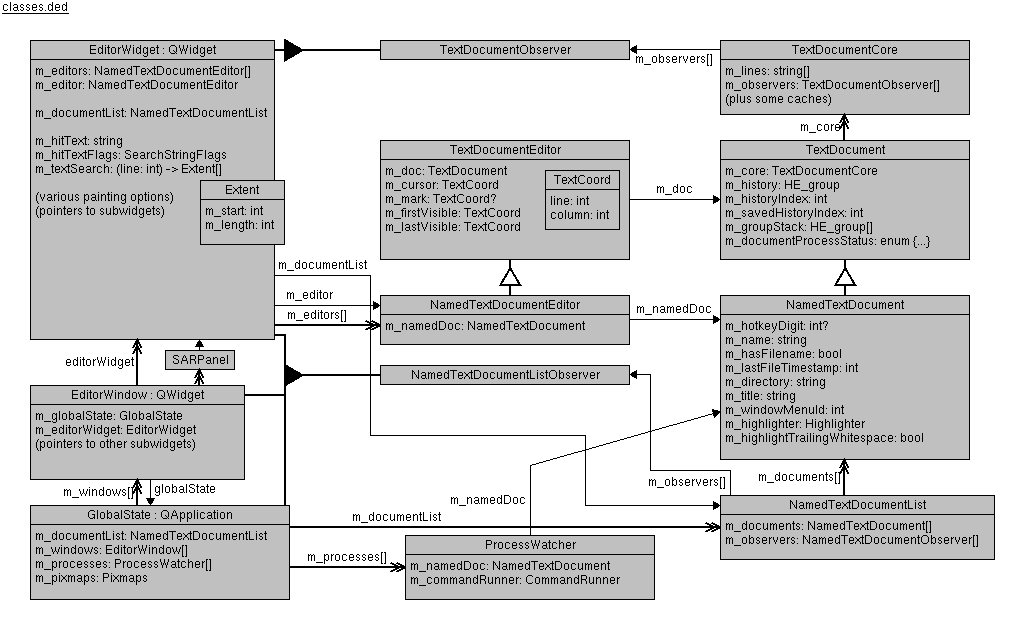
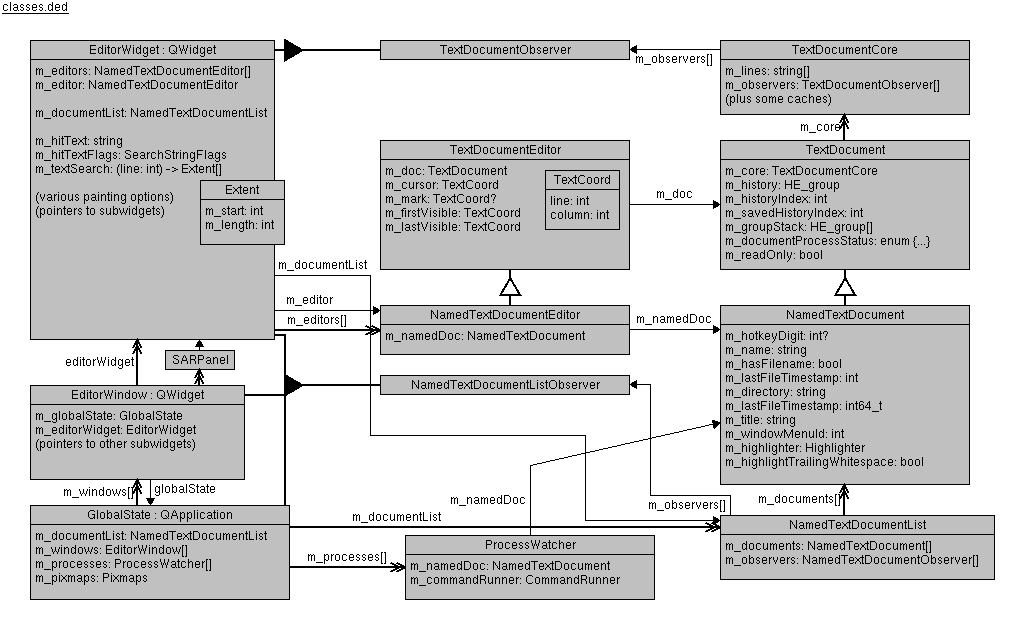
TextDocument: Add 'm_readOnly'.  Set it when opening a read-only file.
This commit just adds the flag; nothing acts on it yet.

Changed region(s): [[0.281, 0.3946, 0.9678, 0.9409], [0.6244, 0.3035, 0.718, 0.3339], [0.562, 0.6981, 0.5932, 0.7284]]

diff --git a/td.h b/td.h
@@ -73,6 +73,22 @@ private:      // data
   // cursor to the end of the document).
   DocumentProcessStatus m_documentProcessStatus;
 
+  // If true, the user interface should prevent attempts to modify the
+  // document contents (the lines of text).  Initially false.
+  //
+  // The purpose of this flag is to prevent unintended changes that will
+  // probably not get saved, such as editing the output of a process or
+  // a file that is read-only on disk.  This is *not* a form of access
+  // control.  The user is assumed to have the ability to turn off the
+  // read-only flag on any document if they want to.
+  //
+  // The methods of this class do *not* enforce the read-only property.
+  // It is entirely up to the UI to do that.  Part of the reason for not
+  // enforcing read-only here is I want ProcessWatcher to be able to
+  // freely insert text, as the changes it is making are not valuable,
+  // original content, but TextDocument does not understand that.
+  bool m_readOnly;
+
 private:     // funcs
   // Change 'historyIndex' by 'inc' and possibly send a notification
   // event to observers.
@@ -110,6 +126,9 @@ public:      // funcs
   bool isProcessOutput() const
     { return m_documentProcessStatus != DPS_NONE; }
 
+  bool isReadOnly() const
+    { return m_readOnly; }
+
   // ------------------------ global changes ----------------------
   // clear history, leaving only the current buffer contents
   void clearHistory();
@@ -128,12 +147,16 @@ public:      // funcs
   void writeFile(string const &fname) const;
 
   // Change the 'm_documentProcessStatus' setting.  Setting it to a
-  // value DPS_RUNNING will immediately discard all undo/redo history.
-  // There must not be any open history groups.
+  // value DPS_RUNNING will set the document as read-only and
+  // immediately discard all undo/redo history.  There must not be any
+  // open history groups.
   //
   // This also has an effect on the highlighting state in
   // NamedTextDocument, which is why it is virtual.
   virtual void setDocumentProcessStatus(DocumentProcessStatus status);
+
+  // Change the read-only flag.
+  void setReadOnly(bool readOnly);
 
   // ------------- modify document, appending to history -----------
   // Insert 'text' at 'tc'.  'text' may contain newline characters.

diff --git a/td.cc b/td.cc
@@ -10,6 +10,7 @@
 #include "trace.h"                     // TRACE
 
 
+// ------------------------- TextDocument ---------------------------
 int TextDocument::s_objectCount = 0;
 
 CHECK_OBJECT_COUNT(TextDocument);
@@ -21,7 +22,8 @@ TextDocument::TextDocument()
     m_historyIndex(0),
     m_savedHistoryIndex(0),
     m_groupStack(),
-    m_documentProcessStatus(DPS_NONE)
+    m_documentProcessStatus(DPS_NONE),
+    m_readOnly(false)
 {
   s_objectCount++;
   TRACE("TextDocument",
@@ -128,6 +130,15 @@ void TextDocument::setDocumentProcessStatus(DocumentProcessStatus status)
     this->clearHistory();
     this->noUnsavedChanges();
   }
+  if (m_documentProcessStatus == DPS_RUNNING) {
+    this->setReadOnly(true);
+  }
+}
+
+
+void TextDocument::setReadOnly(bool readOnly)
+{
+  m_readOnly = readOnly;
 }
 
 

diff --git a/test-td-editor.cc b/test-td-editor.cc
@@ -1691,6 +1691,19 @@ static void testGetSelectedOrIdentifier()
 }
 
 
+static void testReadOnly()
+{
+  TextDocumentAndEditor tde;
+
+  // The only thing to verify at this level is it acts like a flag.
+  EXPECT_EQ(tde.isReadOnly(), false);
+  tde.setReadOnly(true);
+  EXPECT_EQ(tde.isReadOnly(), true);
+  tde.setReadOnly(false);
+  EXPECT_EQ(tde.isReadOnly(), false);
+}
+
+
 // --------------------------- main -----------------------------
 static void entry(int argc, char **argv)
 {
@@ -1722,6 +1735,7 @@ static void entry(int argc, char **argv)
   testReplaceText(true);
   testCountSpaceChars();
   testGetSelectedOrIdentifier();
+  testReadOnly();
 
   // This should be redundant now that I have general infrastructure to
   // check s_objectCounts, but I will leave these for a while at least.

diff --git a/named-td.cc b/named-td.cc
@@ -156,6 +156,11 @@ void NamedTextDocument::readFile()
   xassert(this->hasFilename());
   this->TextDocument::readFile(this->m_name);
   this->refreshModificationTime();
+
+  SMFileUtil sfu;
+  if (sfu.isReadOnly(this->m_name)) {
+    this->setReadOnly(true);
+  }
 }
 
 
@@ -213,6 +218,7 @@ void NamedTextDocument::refreshModificationTime()
 {
   TRACE("modtime", "refresh: old ts for " << this->m_name <<
                    " is " << this->m_lastFileTimestamp);
+  xassert(this->hasFilename());
 
   if (!this->getDiskModificationTime(this->m_lastFileTimestamp)) {
     // We ignore the error because we only

diff --git a/td-editor.h b/td-editor.h
@@ -101,6 +101,10 @@ public:      // funcs
   // Status of associated process, if any.
   bool documentProcessStatus() const   { return m_doc->documentProcessStatus(); }
 
+  // Get/set read-only flag.
+  bool isReadOnly() const              { return m_doc->isReadOnly(); }
+  void setReadOnly(bool readOnly)      { m_doc->setReadOnly(readOnly); }
+
   // -------------------- query file dimensions --------------------
   // Number of lines in the document.  Always positive.
   int numLines() const                 { return m_doc->numLines(); }

diff --git a/test-named-td.cc b/test-named-td.cc
@@ -72,10 +72,22 @@ static void testReadFile()
 }
 
 
+static void testSetDocumentProcessStatus()
+{
+  NamedTextDocument doc;
+
+  // Check that setting to DPS_RUNNING sets read-only.
+  EXPECT_EQ(doc.isReadOnly(), false);
+  doc.setDocumentProcessStatus(DPS_RUNNING);
+  EXPECT_EQ(doc.isReadOnly(), true);
+}
+
+
 static void entry()
 {
   testWhenUntitledExists();
   testReadFile();
+  testSetDocumentProcessStatus();
 
   xassert(NamedTextDocument::s_objectCount == 0);
   xassert(TextDocument::s_objectCount == 0);
